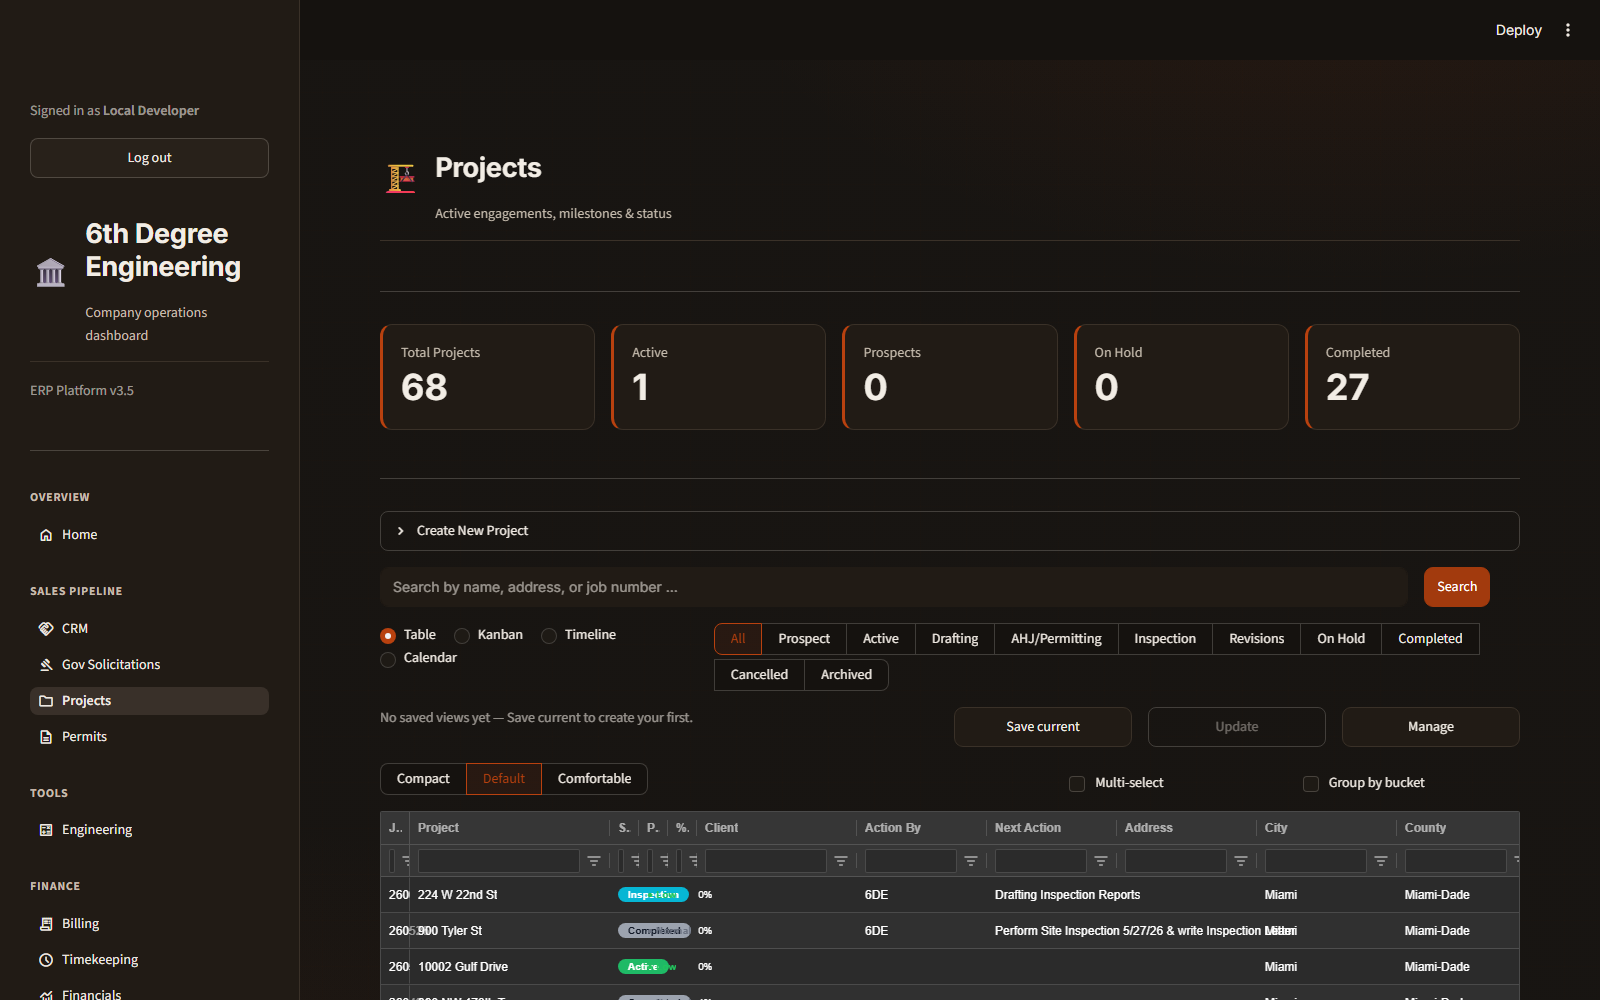
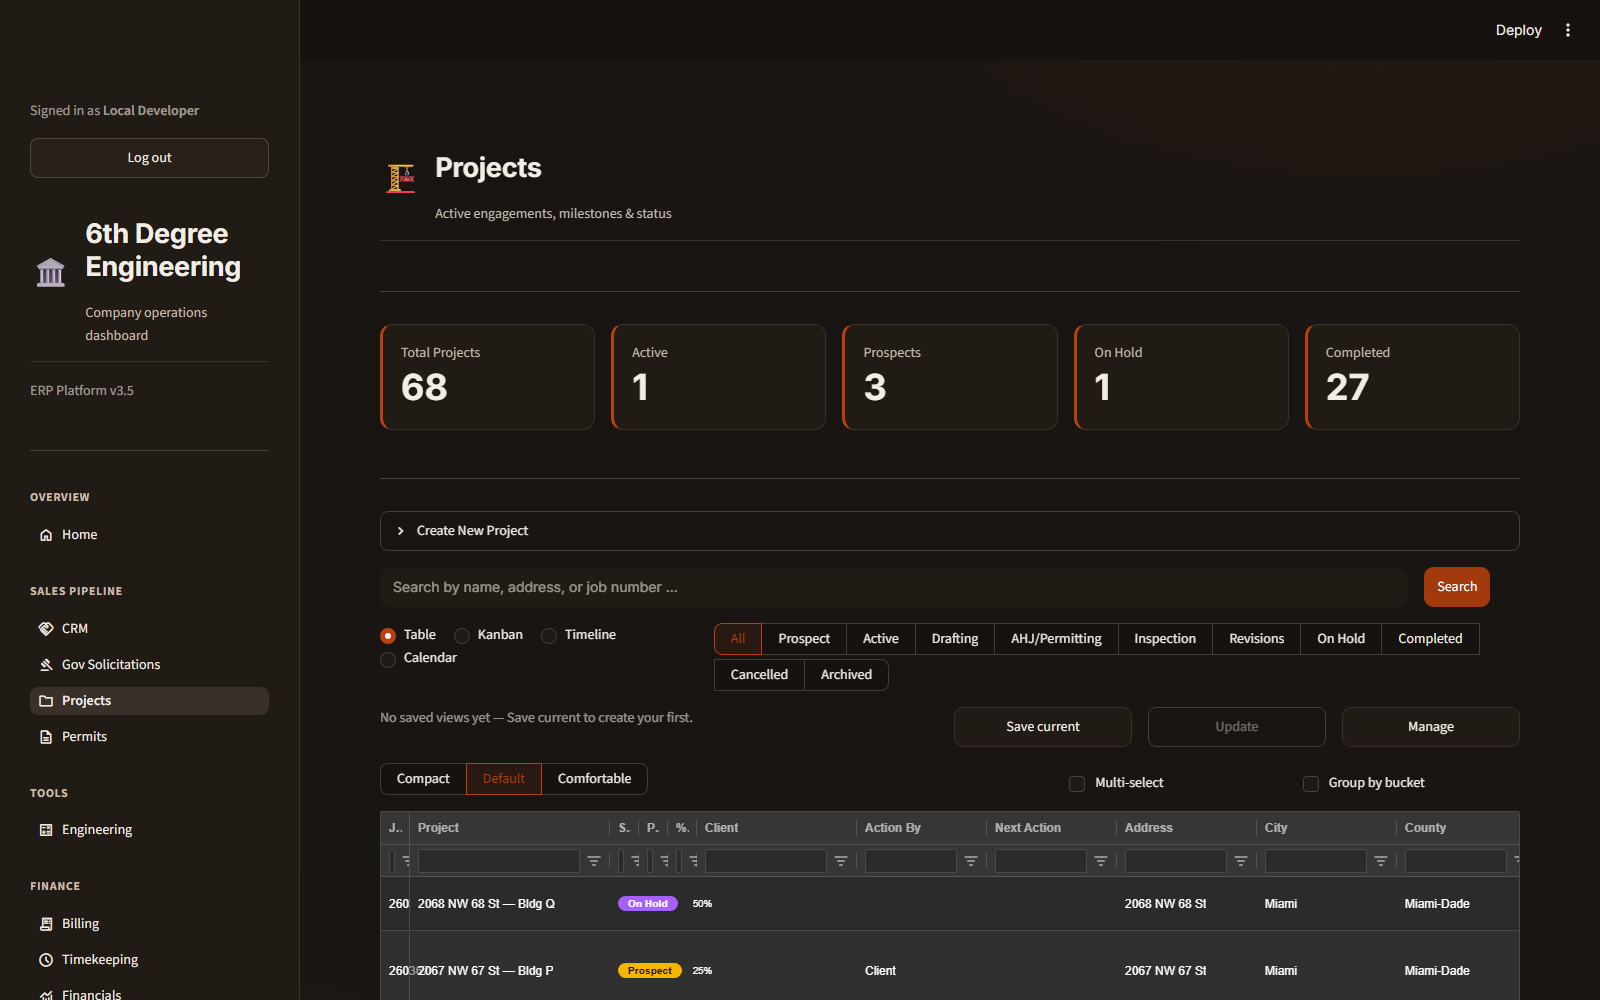
Harden pill renderers with textContent + fix stale comments/docstring
Review fixes for PR #27:
- Status, priority, and bucket renderers now build their inner <span>
  via document.createElement + style.cssText and set the data-driven
  label with textContent instead of interpolating it into innerHTML,
  closing the markup-injection sink. Outer wrapper structure unchanged
  so existing CSS still applies. Percent renderer (numbers only) is
  untouched.
- Dropped the inaccurate "pinned" claim from the group-by-bucket
  comment (code only unhides + pre-sorts the bucket column).
- Rewrote the tests/test_project_grid.py module docstring to describe
  the current class-component contract (init/getGui/refresh) instead of
  the superseded return-a-DOM-element fix that caused React error #31.
- Updated renderer-shape tests: label renderers must use textContent
  and must NOT use innerHTML; kept the no-raw-HTML-string regression.
- Re-ran scripts/repro_grid_error31.py (headless Chrome, 68 prod-shaped
  rows, SQLite): zero React errors, grid renders; refreshed
  docs/qa/grid31_repro.png.

diff --git a/tests/test_project_grid.py b/tests/test_project_grid.py
@@ -1,17 +1,21 @@
-"""Regression tests for the Projects AG Grid HTML cell renderers.
+"""Regression tests for the Projects AG Grid pill/bar cell renderers.
 
-Bug (fix/projects-grid-html): AG Grid v32+ (streamlit-aggrid bundles v34)
-assigns a cellRenderer function's *string* return value via
-``element.textContent`` instead of ``innerHTML``. A renderer that returns a
-raw HTML string (``return `<span ...>` ``) therefore shows up in the cell as
-literal escaped HTML — e.g. ``<span style="...background:#F59E0B;..."></span>``
-— for every row, instead of a rendered pill / progress bar.
+Contract (fix/projects-grid-react-error-31): in streamlit-aggrid 1.2.x
+(AG Grid React v34) a *plain function* cellRenderer is mounted as a React
+component, so returning a DOM element from one throws "Minified React error
+#31: Objects are not valid as a React child (found: [object
+HTMLSpanElement])" and the whole grid dies behind a "Component Error"
+banner. Returning an HTML *string* is no better — AG Grid assigns it via
+``textContent`` and the markup shows up as literal escaped text.
 
-The fix: each HTML-emitting renderer must build and return a DOM *element*
-(``document.createElement(...)`` + ``el.innerHTML = ...``), not an HTML string.
+The only safe shape is an AG Grid *JS component class* implementing
+``init(params)`` / ``getGui()`` / ``refresh()`` — AG Grid instantiates it
+outside React entirely. Each renderer builds its DOM in ``init`` via
+``document.createElement`` (labels set with ``textContent``, never
+interpolated into innerHTML) and hands it back from ``getGui``.
 
-These tests inspect the generated JsCode so the specific defect (a bare
-``return `<...` `` HTML string with no DOM element) would be caught.
+These tests inspect the generated JsCode so any regression back to a plain
+function renderer or a bare ``return `<...` `` HTML string is caught.
 """
 from __future__ import annotations
 
@@ -34,8 +38,8 @@ from streamlit_app.components.project_grid import (  # noqa: E402
     projects_to_dataframe,
 )
 
-# Renderers that emit styled HTML pills / bars. Each MUST hand AG Grid a DOM
-# element (so AG Grid sets innerHTML), never a bare HTML string.
+# Renderers that emit styled pills / bars. Each MUST be a JS component class
+# that builds and hands AG Grid a DOM element — never a bare HTML string.
 _HTML_RENDERER_BUILDERS = {
     "status": _build_status_renderer,
     "priority": _build_priority_renderer,
@@ -63,28 +67,44 @@ _TEXT_COLUMNS = (
 
 @pytest.mark.parametrize("name,builder", list(_HTML_RENDERER_BUILDERS.items()))
 def test_html_renderer_returns_dom_element_not_string(name, builder):
-    """Each HTML renderer must return a DOM element with innerHTML set.
+    """Each renderer must build a DOM element, never return an HTML string.
 
-    Catches the exact defect: returning a raw HTML string makes AG Grid v34
-    render it via textContent (literal escaped ``<span ...>`` text).
+    Catches the original defect: returning a raw HTML string makes AG Grid
+    v34 render it via textContent (literal escaped ``<span ...>`` text).
     """
     js = builder().js_code
 
-    # The fix's fingerprint: build an element and set its innerHTML.
+    # The fix's fingerprint: build a real DOM element.
     assert "document.createElement" in js, (
-        f"{name} renderer must create a DOM element so AG Grid renders HTML "
-        f"via innerHTML, not textContent"
-    )
-    assert ".innerHTML" in js, (
-        f"{name} renderer must assign markup to element.innerHTML"
+        f"{name} renderer must create a DOM element instead of returning "
+        f"an HTML string (AG Grid v34 would escape the string)"
     )
 
     # The defect itself: a bare `return `<tag...` HTML string. After the fix
-    # the HTML markup is assigned to innerHTML and the function returns the
-    # element, so no `return` should be immediately followed by an HTML tag.
+    # the DOM is built in init() and getGui() returns the element, so no
+    # `return` should be immediately followed by an HTML tag.
     assert not re.search(r"return\s*`?\s*<[a-zA-Z]", js), (
         f"{name} renderer still returns a raw HTML string — AG Grid v34 will "
         f"escape it and show literal markup in the cell"
+    )
+
+
+@pytest.mark.parametrize("name", ["status", "priority", "lifecycle_bucket"])
+def test_label_renderers_use_textcontent_not_innerhtml(name):
+    """XSS hardening: label-bearing pill renderers must set the (data-driven)
+    label via ``textContent`` and must not interpolate it into innerHTML.
+
+    (The percent renderer only interpolates numbers, so innerHTML is fine
+    there.)
+    """
+    js = _HTML_RENDERER_BUILDERS[name]().js_code
+    assert ".textContent" in js, (
+        f"{name} renderer must assign the label via textContent so cell "
+        f"values can never inject markup"
+    )
+    assert ".innerHTML" not in js, (
+        f"{name} renderer must not build markup via innerHTML — the label "
+        f"is data-driven and would be an XSS sink"
     )
 
 

diff --git a/streamlit_app/components/project_grid.py b/streamlit_app/components/project_grid.py
@@ -142,9 +142,15 @@ def _build_status_renderer() -> JsCode:
                 const fg = darkText.includes(value) ? '#111827' : '#ffffff';
                 const label = labels[value] || value;
                 this.eGui = document.createElement('span');
-                this.eGui.innerHTML = `<span style="background:${{bg}};color:${{fg}};` +
+                const pill = document.createElement('span');
+                pill.style.cssText = `background:${{bg}};color:${{fg}};` +
                        `padding:2px 10px;border-radius:10px;font-size:0.85em;` +
-                       `font-weight:600;">${{label}}</span>`;
+                       `font-weight:600;`;
+                // textContent (not innerHTML) so a hostile status value can
+                // never inject markup — colors/labels come from trusted
+                // Python-side maps, only the label text is data-driven.
+                pill.textContent = label;
+                this.eGui.appendChild(pill);
             }}
             getGui() {{ return this.eGui; }}
             refresh() {{ return false; }}
@@ -171,8 +177,12 @@ def _build_priority_renderer() -> JsCode:
                 const labels = {label_map_js};
                 const color = colors[value] || '#C6BCAE';
                 const label = labels[value] || value;
-                this.eGui.innerHTML = `<span style="color:${{color}};font-weight:600;` +
-                       `font-size:0.85em;">● ${{label}}</span>`;
+                const dot = document.createElement('span');
+                dot.style.cssText = `color:${{color}};font-weight:600;` +
+                       `font-size:0.85em;`;
+                // textContent so an unexpected priority value cannot inject HTML.
+                dot.textContent = `● ${{label}}`;
+                this.eGui.appendChild(dot);
             }}
             getGui() {{ return this.eGui; }}
             refresh() {{ return false; }}
@@ -389,9 +399,13 @@ def _build_bucket_renderer() -> JsCode:
                 const labels = {label_map_js};
                 const bg = colors[value] || '#C6BCAE';
                 const label = labels[value] || value;
-                this.eGui.innerHTML = `<span style="background:${{bg}};color:#fff;` +
+                const pill = document.createElement('span');
+                pill.style.cssText = `background:${{bg}};color:#fff;` +
                        `padding:2px 8px;border-radius:8px;font-size:0.8em;` +
-                       `font-weight:500;">${{label}}</span>`;
+                       `font-weight:500;`;
+                // textContent so an unexpected bucket value cannot inject HTML.
+                pill.textContent = label;
+                this.eGui.appendChild(pill);
             }}
             getGui() {{ return this.eGui; }}
             refresh() {{ return false; }}
@@ -448,7 +462,7 @@ def _build_grid_options(
 
     # True row-grouping is an AG Grid Enterprise module (we ship community
     # only — enable_enterprise_modules=False), so "group by bucket" surfaces
-    # the bucket column pinned + pre-sorted instead of a real group tree.
+    # the bucket column unhidden + pre-sorted instead of a real group tree.
     gb.configure_column(
         "lifecycle_bucket",
         header_name=COLUMN_HEADERS["lifecycle_bucket"],
